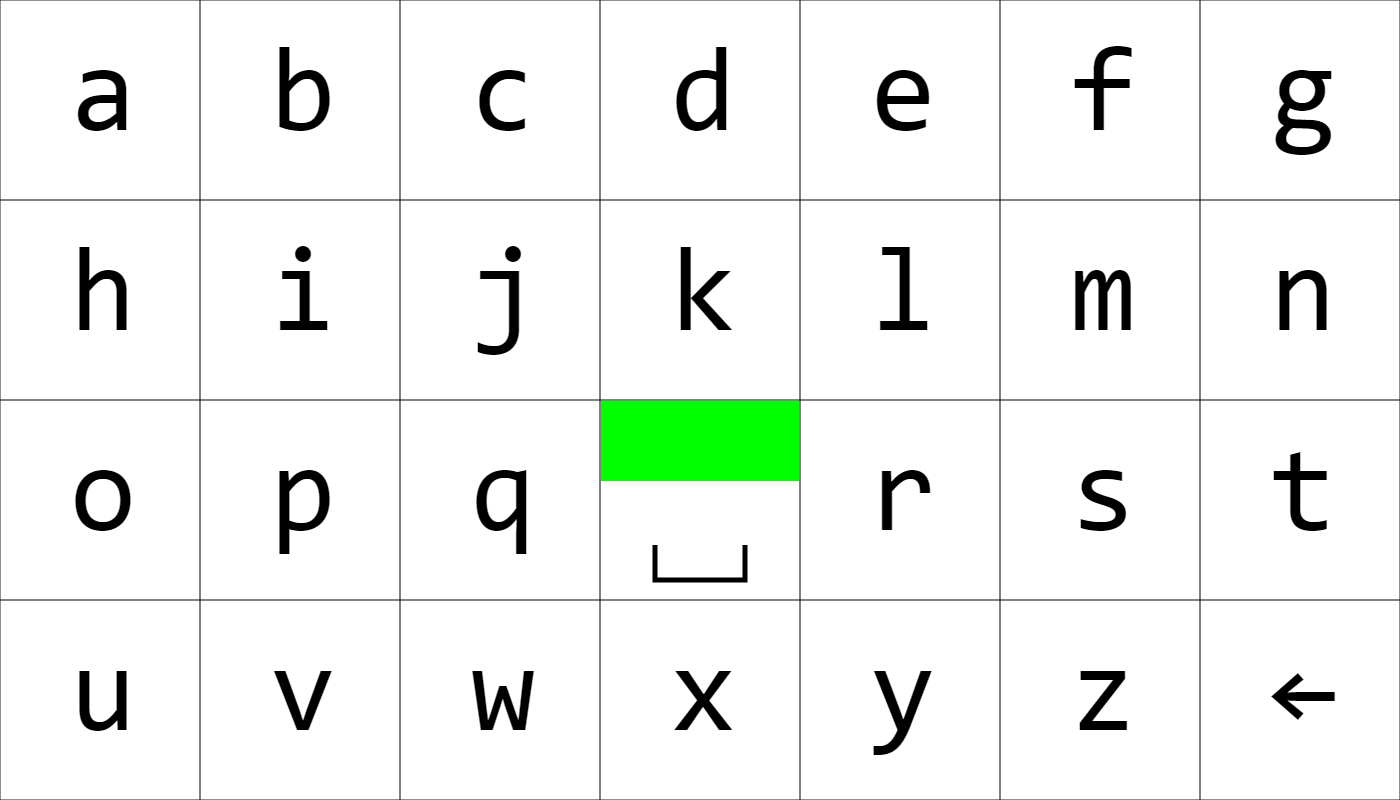
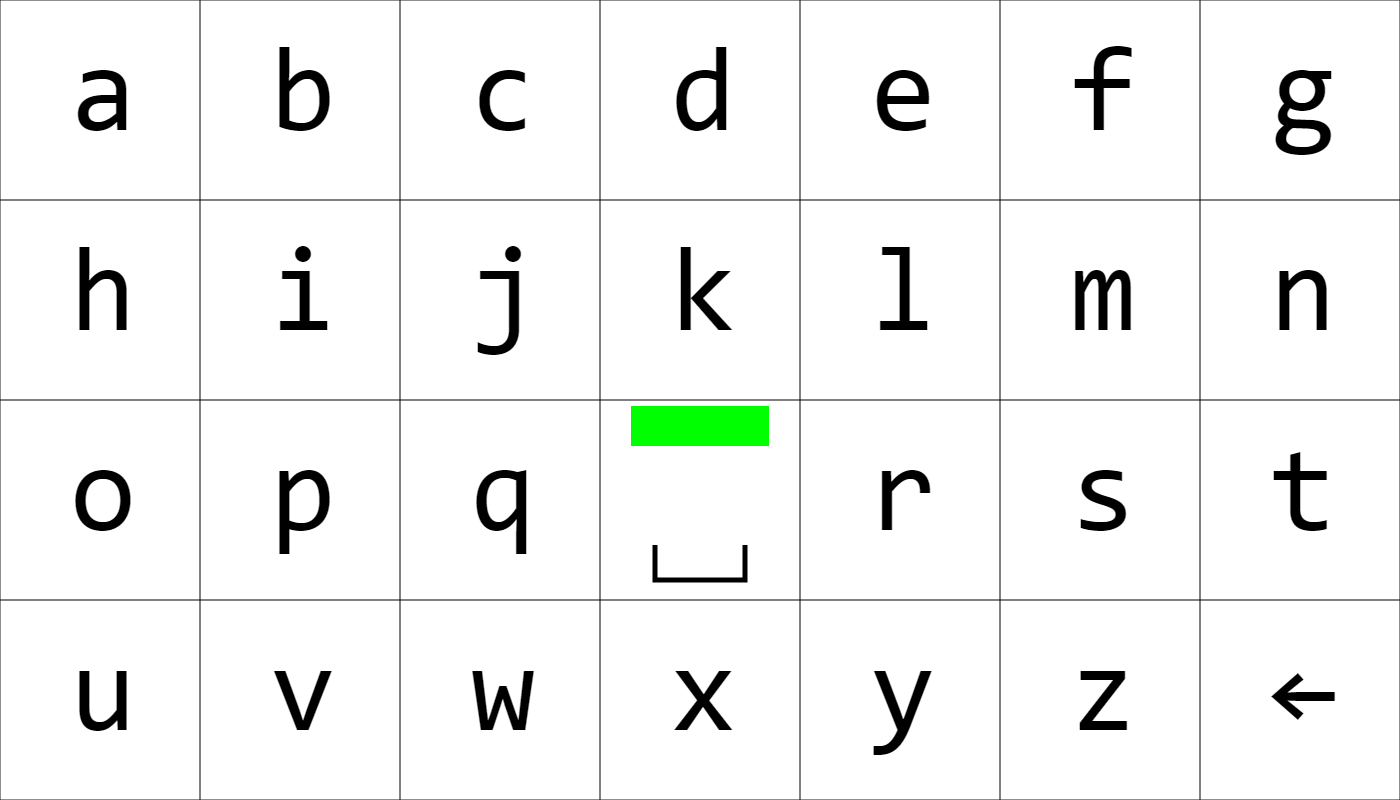
added support for multiple (4) alphabet textures in alphabet_receiver

Changed region(s): [[0.43, 0.5, 0.5836, 0.625]]

diff --git a/alphabet_receiver.html b/alphabet_receiver.html
@@ -65,19 +65,36 @@
 	var lost;
 	// variables for debugging
 	var debug = true, debugTranslation;
-	// alphabet
-	var letters = 'abcdefghijklmnopq rstuvwxyz←';
 	// char holding current letter
-	var currentLetter;
+	var currentLetter = "";
 
 	// alphabet rotation
 	var rotationChange = 0;
+	// alphabet map
+	var alphabet;
+	// current alphabet according to the texture that is currently being displayed
+	var currentAlphabet;
 	// constants for rotation
 	const NO_ROTATION = 0, ROTATE_RIGHT = 1, ROTATE_LEFT = 2;
 	// current state of rotation
 	var nowRotating = NO_ROTATION;
 	// variables for stepping rotation
-	var startRotation = 0, currentRotation = 0, rotationStep = Math.PI * 2;
+	var startRotation = 0, currentRotation = 0, rotationStep = Math.PI * 2 / 4;
+	// basic translation unit because whole face takes 14 units on width
+	const baseTranslUnit = 7;
+
+	/**
+	 * Set alphabet map for obtaining focused letters
+	 */
+	function initAlphabetMap() {
+		currentAlphabet = 0;
+		alphabet = [];
+		alphabet[0] = 'abcdefghijklmnopq rstuvwxyz←';
+		alphabet[1] = 'ABCDEFGHIJKLMNOPQ RSTUVWXYZ←';
+		alphabet[3] = '0123456789áčďéěíň óřšťúůýžü←';
+		alphabet[2] = '.,?!-+_/\\@&#():;% €$"\'|[]{}←';
+		//alphabet[0] = '0123456789ÁČĎÉĚÍŇ ÓŘŠŤÚŮÝŽÜ←';
+	}
 
 	/**
 	 * Init scene and buffers
@@ -91,10 +108,6 @@
 		oneFaceIndicesCount = scene.indices.length;// get the count of indices one face has
 		//border face
 		scene.add(new Utils.Face(1, 1, 0, -0.0001, -1, {strip: false, orientation: or}));
-		// debug face
-		if (debug) {
-			scene.add(new Utils.Face(1, 1, 0, -0.0001, -1, {strip: false, orientation: or}));
-		}
 
 		vertexBuffer = gl.createBuffer();
 		gl.bindBuffer(gl.ARRAY_BUFFER, vertexBuffer);
@@ -131,16 +144,39 @@
 
 		gl.bindBuffer(gl.ELEMENT_ARRAY_BUFFER, indexBuffer);
 
-		// draw alphabet
+		// draw basic small alphabet
 		gl.activeTexture(gl.TEXTURE0);
 		gl.bindTexture(gl.TEXTURE_2D, textures[0]);
 		gl.uniformMatrix4fv(program.modelview, false, Utils.convert(rotationAlphabet.mul(camera.view)));
-		// first face frmo the start
+		gl.drawElements(gl.TRIANGLES, oneFaceIndicesCount, gl.UNSIGNED_SHORT, 0);
+
+		// draw basic big alphabet
+		gl.activeTexture(gl.TEXTURE0);
+		gl.bindTexture(gl.TEXTURE_2D, textures[1]);
+		gl.uniformMatrix4fv(program.modelview, false,
+			Utils.convert( new Mat4RotZ(-Math.PI / 2).mul(new Mat4Transl(-baseTranslUnit, baseTranslUnit, 0)).mul(rotationAlphabet).mul(camera.view))
+		);
+		gl.drawElements(gl.TRIANGLES, oneFaceIndicesCount, gl.UNSIGNED_SHORT, 0);
+
+		// draw basic special alphabet
+		gl.activeTexture(gl.TEXTURE0);
+		gl.bindTexture(gl.TEXTURE_2D, textures[2]);
+		gl.uniformMatrix4fv(program.modelview, false,
+			Utils.convert( new Mat4RotZ(Math.PI).mul(new Mat4Transl(0, 2*baseTranslUnit, 0)).mul(rotationAlphabet).mul(camera.view))
+		);
+		gl.drawElements(gl.TRIANGLES, oneFaceIndicesCount, gl.UNSIGNED_SHORT, 0);
+
+		// draw numbers alphabet
+		gl.activeTexture(gl.TEXTURE0);
+		gl.bindTexture(gl.TEXTURE_2D, textures[3]);
+		gl.uniformMatrix4fv(program.modelview, false,
+			Utils.convert( new Mat4RotZ(Math.PI / 2).mul(new Mat4Transl(baseTranslUnit, baseTranslUnit, 0)).mul(rotationAlphabet).mul(camera.view))
+		);
 		gl.drawElements(gl.TRIANGLES, oneFaceIndicesCount, gl.UNSIGNED_SHORT, 0);
 
 		// draw border
 		gl.activeTexture(gl.TEXTURE0);
-		gl.bindTexture(gl.TEXTURE_2D, textures[2]);
+		gl.bindTexture(gl.TEXTURE_2D, textures[4]);
 		gl.uniformMatrix4fv(program.projection, false, projection);
 		gl.uniformMatrix4fv(program.modelview, false, Utils.convert(translation.mul(camera.view)));
 		// second face from the start
@@ -149,11 +185,11 @@
 		// draw debug border
 		if (debug) {
 			gl.activeTexture(gl.TEXTURE0);
-			gl.bindTexture(gl.TEXTURE_2D, textures[3]);
+			gl.bindTexture(gl.TEXTURE_2D, textures[5]);
 			gl.uniformMatrix4fv(program.projection, false, projection);
 			gl.uniformMatrix4fv(program.modelview, false, Utils.convert(debugTranslation.mul(camera.view)));
 			// last face
-			gl.drawElements(gl.TRIANGLES, oneFaceIndicesCount, gl.UNSIGNED_SHORT, oneFaceIndicesCount * 4);
+			gl.drawElements(gl.TRIANGLES, oneFaceIndicesCount, gl.UNSIGNED_SHORT, oneFaceIndicesCount * 2);
 		}
 	}
 
@@ -202,14 +238,15 @@
 		camera.setPosition(new Vec3D(0, -10, 0));
 
 		initBuffers();
+		initAlphabetMap();
 
 		WS.setWebSocket(() => {}, onWsMessage, () => {});
 
 		Utils.initRequestAnimationFrame();
 
 		// load all textures
-		let images = ["img/alphabet-basic-small.png", "img/alphabet-numerics-small.png", "img/border.png", "img/border-debug.png"];
-		Utils.loadTexture(gl, images, function refreshTexture(imgs) {
+		let images = ["img/alphabet-basic-small.png", "img/alphabet-basic-big.png", "img/alphabet-special.png", "img/alphabet-numerics-small.png", "img/border.png", "img/border-debug.png"];
+		Utils.loadTexture(gl, images, (imgs) => {
 			textures = [];
 			for (let i = 0; i < imgs.length; i++) {
 				textures[i] = imgs[i];
@@ -235,23 +272,31 @@
 	}
 
 	function manageRotation() {
+		if (nowRotating === NO_ROTATION) return;
+
 		if (nowRotating === ROTATE_RIGHT) {
 			currentRotation += 0.05;
 			if (currentRotation > startRotation + rotationStep) {
 				currentRotation = startRotation + rotationStep;
 				rotationChange = 0;
 				nowRotating = NO_ROTATION;
+				currentAlphabet++;
 			}
-			rotationAlphabet = new Mat4RotZ(currentRotation);
 		} else if (nowRotating === ROTATE_LEFT) {
 			currentRotation -= 0.05;
 			if (currentRotation < startRotation - rotationStep) {
 				currentRotation = startRotation - rotationStep;
 				rotationChange = 0;
 				nowRotating = NO_ROTATION;
+				currentAlphabet--;
 			}
-			rotationAlphabet = new Mat4RotZ(currentRotation);
 		}
+		// -1 means rotation to left going from 0 to right alphabet (special chars)
+		if (currentAlphabet < 0) currentAlphabet = 3;
+		// 4 means rotation to right going from  3 to left alphabet (basic small)
+		if (currentAlphabet > 3) currentAlphabet = 0;
+
+		rotationAlphabet = new Mat4Transl(0, -baseTranslUnit, 0).mul(new Mat4RotZ(currentRotation)).mul(new Mat4Transl(0, baseTranslUnit, 0));
 	}
 
 	function onWsMessage(data) {
@@ -399,7 +444,7 @@
 		y += 2;
 		// 7 letters in a row
 		let seq = x + y * 7;
-		currentLetter = letters[seq];
+		currentLetter = alphabet[currentAlphabet][seq];
 	}
 
 	function addText() {
